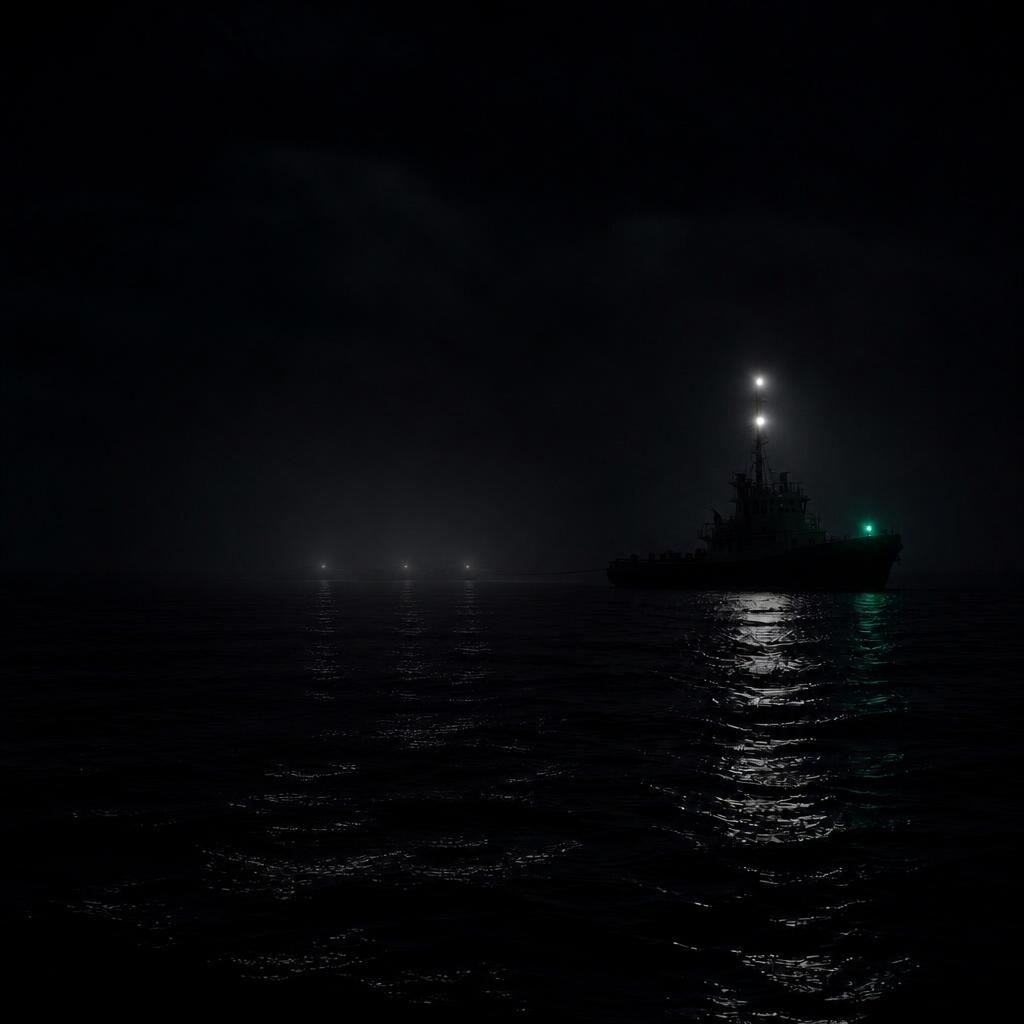
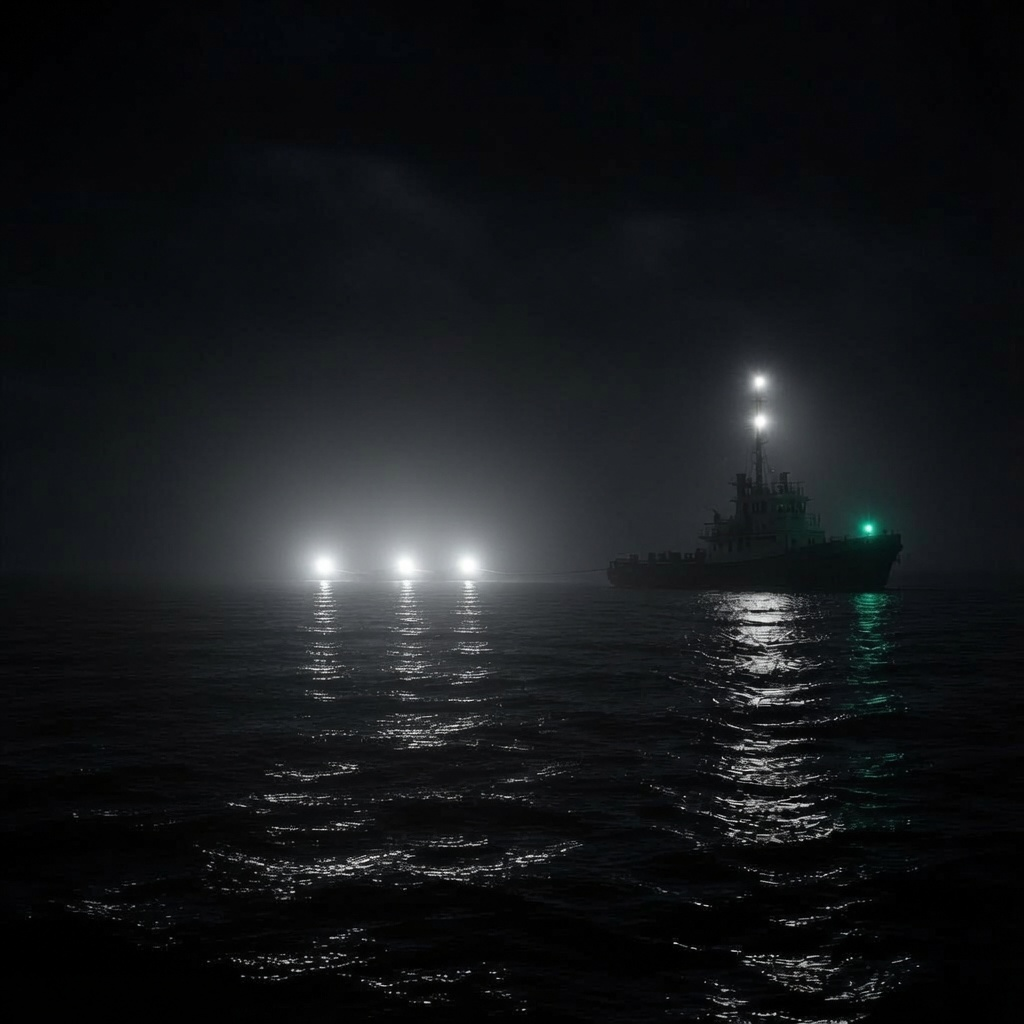
new images and all jpg for 23to31

diff --git a/src/react-app/data/quizData.ts b/src/react-app/data/quizData.ts
@@ -328,7 +328,7 @@ export const QUIZ_COLLECTION: QuizDefinition[] = [
       "Vessel engaged in towing alongside"],
     description: "24(a), (g); 23(a)",
     fact: "",
-    imageUrl: "/images/23to31vessel/Q6.png"  // Place image in public/images/
+    imageUrl: "/images/23to31vessel/Q6.jpg"  // Place image in public/images/
     },
     {
     id: 7,
@@ -508,7 +508,7 @@ export const QUIZ_COLLECTION: QuizDefinition[] = [
       "Power-driven vessel"],
     description: "26(b)",
     fact: "",
-    imageUrl: "/images/23to31vessel/Q21.png"  // Place image in public/images/
+    imageUrl: "/images/23to31vessel/Q21.jpg"  // Place image in public/images/
     },
     {
     id: 22,
@@ -520,7 +520,7 @@ export const QUIZ_COLLECTION: QuizDefinition[] = [
       "Vessel pushing ahead"],
     description: "29(a)",
     fact: "Many pilot vessels worldwide have “Pilot” painted on their sides for easy identification.",
-    imageUrl: "/images/23to31vessel/Q22.png"  // Place image in public/images/
+    imageUrl: "/images/23to31vessel/Q22.jpg"  // Place image in public/images/
     }
 
   ]
@@ -615,7 +615,7 @@ export const QUIZ_COLLECTION: QuizDefinition[] = [
       "Unknown"],
     description: "21(a), (b)",
     fact: "",
-    imageUrl: "/images/23to31vessel/Q6.png"  // Place image in public/images/
+    imageUrl: "/images/23to31vessel/Q6.jpg"  // Place image in public/images/
     },
     {
     id: 7,
@@ -810,7 +810,7 @@ export const QUIZ_COLLECTION: QuizDefinition[] = [
       "Unknown"],
     description: "21(b)",
     fact: "",
-    imageUrl: "/images/23to31vessel/Q21.png"  // Place image in public/images/
+    imageUrl: "/images/23to31vessel/Q21.jpg"  // Place image in public/images/
     },
     {
     id: 22,
@@ -823,7 +823,7 @@ export const QUIZ_COLLECTION: QuizDefinition[] = [
       "Unknown"],
     description: "21(b)",
     fact: "",
-    imageUrl: "/images/23to31vessel/Q22.png"  // Place image in public/images/
+    imageUrl: "/images/23to31vessel/Q22.jpg"  // Place image in public/images/
     }
   ]
   },
@@ -911,7 +911,7 @@ export const QUIZ_COLLECTION: QuizDefinition[] = [
       "Towing vessel may be 50 m or greater; overall tow is greater than 200 m; inconspicuous vessel/object is greater than 100 m"],
     description: "24(a), (d), (g)(iii); 23(a)",
     fact: "We can also tell that this inconspicuous vessel/object is less than 25 m wide because we don’t see two extra all-round white lights (which is required when the breadth is 25 m or more). Rule 24(g)(i)(ii)",
-    imageUrl: "/images/23to31vessel/Q6.png"  // Place image in public/images/
+    imageUrl: "/images/23to31vessel/Q6.jpg"  // Place image in public/images/
     },
     {
     id: 7,
@@ -1096,7 +1096,7 @@ export const QUIZ_COLLECTION: QuizDefinition[] = [
     <li>If you see <strong>none</strong>, it’s <strong>under 50 m</strong>.</li>
     </ul>
     Rule 26(b)(ii)`,
-    imageUrl: "/images/23to31vessel/Q21.png"  // Place image in public/images/
+    imageUrl: "/images/23to31vessel/Q21.jpg"  // Place image in public/images/
     },
     {
     id: 22,
@@ -1108,7 +1108,7 @@ export const QUIZ_COLLECTION: QuizDefinition[] = [
       "Unknown"],
     description: "29(a)",
     fact: "When a pilot vessel is on duty, it doesn’t display masthead lights, making its length a mystery!",
-    imageUrl: "/images/23to31vessel/Q22.png"  // Place image in public/images/
+    imageUrl: "/images/23to31vessel/Q22.jpg"  // Place image in public/images/
     }
   ]
   },
@@ -1196,7 +1196,7 @@ export const QUIZ_COLLECTION: QuizDefinition[] = [
       "At anchor"],
     description: "24(a), (d); 23(a)",
     fact: "Rule 24 (Towing and Pushing) sends us back to Rule 23 (Power-driven Vessels Underway). Together, they show that towing or pushing vessels display lights that only indicate they are underway—not whether they’re making way.",
-    imageUrl: "/images/23to31vessel/Q6.png"  // Place image in public/images/
+    imageUrl: "/images/23to31vessel/Q6.jpg"  // Place image in public/images/
     },
     {
     id: 7,
@@ -1376,7 +1376,7 @@ export const QUIZ_COLLECTION: QuizDefinition[] = [
       "At anchor"],
     description: "26(b)(iii)",
     fact: "When a vessel engaged in fishing is underway, you can tell if it’s making way or not making way based on its lights. If its sidelights and sternlight are on, it’s telling you it’s making way.",
-    imageUrl: "/images/23to31vessel/Q21.png"  // Place image in public/images/
+    imageUrl: "/images/23to31vessel/Q21.jpg"  // Place image in public/images/
     },
     {
     id: 22,
@@ -1388,7 +1388,7 @@ export const QUIZ_COLLECTION: QuizDefinition[] = [
       "At anchor"],
     description: "29(a)(ii)",
     fact: "The lights of a vessel engaged in pilotage duties only tell you that they are underway—not whether they are making way or not making way.",
-    imageUrl: "/images/23to31vessel/Q22.png"  // Place image in public/images/
+    imageUrl: "/images/23to31vessel/Q22.jpg"  // Place image in public/images/
     }
   ]
   },
@@ -1476,7 +1476,7 @@ export const QUIZ_COLLECTION: QuizDefinition[] = [
       "Vessel at anchor; stern aspect; may be 100 m or greater in length"],
     description: "24(a), (d), (g)(iii); 23(a)",
     fact: "During the day, inconspicuous vessels or objects can be hard to spot until you’re very close. That’s why they are always required to display a diamond shape near the end—it helps you see them from farther away.  Rule 24(g)(iv)",
-    imageUrl: "/images/23to31vessel/Q6.png"  // Place image in public/images/
+    imageUrl: "/images/23to31vessel/Q6.jpg"  // Place image in public/images/
     },
     {
     id: 7,
@@ -1656,7 +1656,7 @@ export const QUIZ_COLLECTION: QuizDefinition[] = [
       "Power-driven vessel; head-on aspect; less than 50 m in length; underway"],
     description: "26(c)",
     fact: "",
-    imageUrl: "/images/23to31vessel/Q21.png"  // Place image in public/images/
+    imageUrl: "/images/23to31vessel/Q21.jpg"  // Place image in public/images/
     },
     {
     id: 22,
@@ -1668,7 +1668,7 @@ export const QUIZ_COLLECTION: QuizDefinition[] = [
       "Vessel pushing ahead; starboard aspect; may be 50 m or greater in length; underway"],
     description: "29(a)",
     fact: "Off duty, a pilot vessel follows the same lighting rules as other vessels of its length. E.g., a power-driven one would turn off its all-round white-over-red lights, turn on its masthead light(s), and keep its sidelights and sternlight on. Rule 29(b), Rule 23(a)",
-    imageUrl: "/images/23to31vessel/Q22.png"  // Place image in public/images/
+    imageUrl: "/images/23to31vessel/Q22.jpg"  // Place image in public/images/
     }
   ]
   },